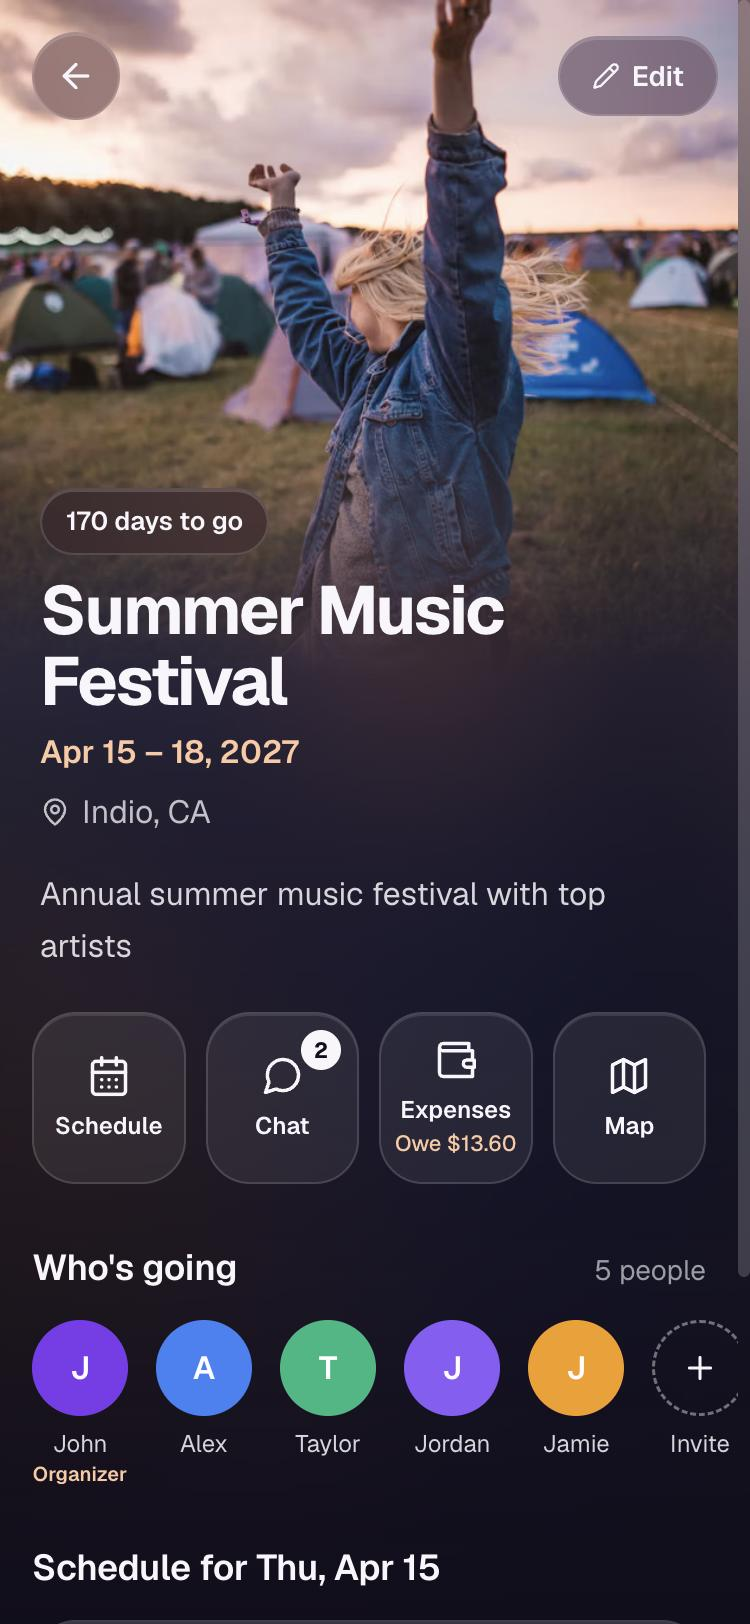
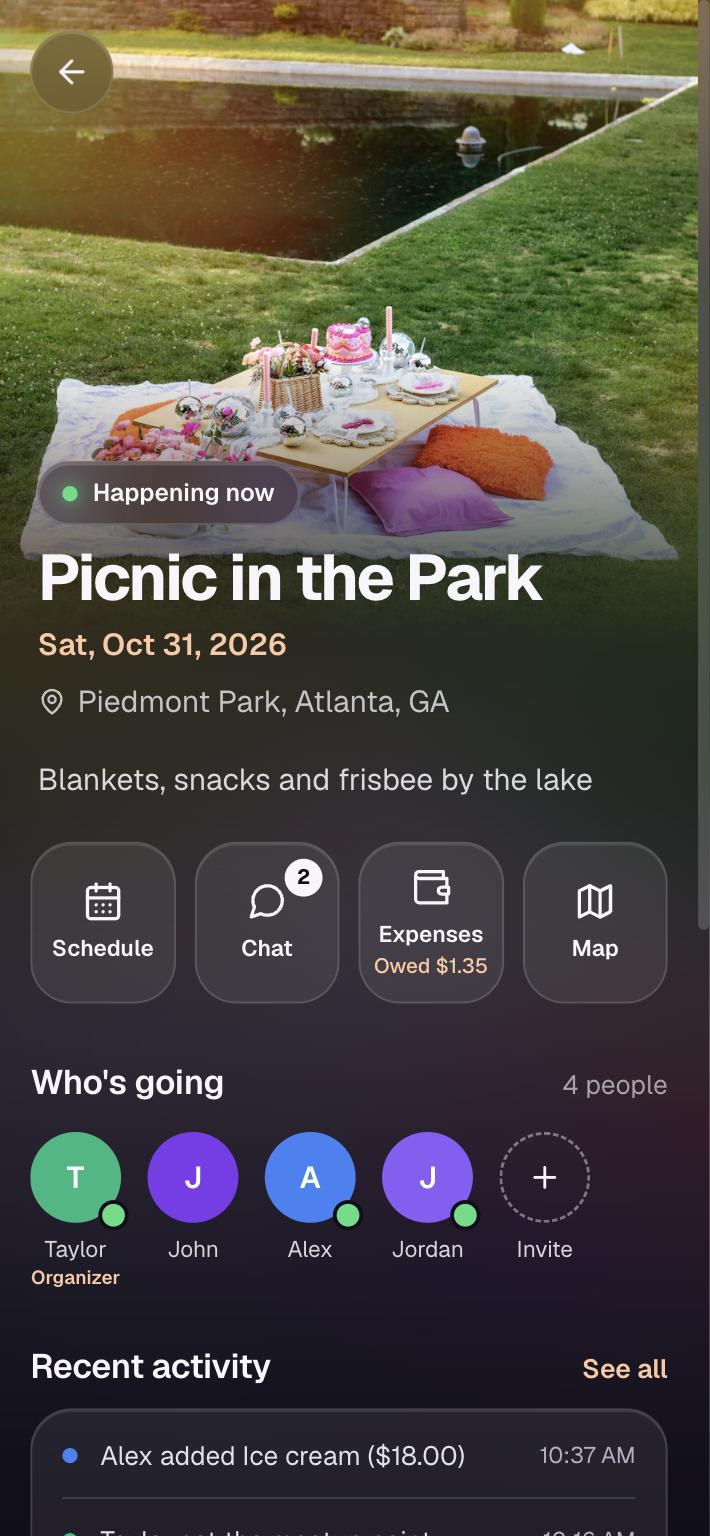
The README shows the app as it is now and claims only what's been tested, and CI stops failing on a flaky chat test

diff --git a/src/components/screens/GroupChat.test.js b/src/components/screens/GroupChat.test.js
@@ -213,7 +213,9 @@ describe('Group chat', () => {
       checkForNewMessages();
       await screen.findByText('Sent from my other phone');
 
-      expect(screen.getByRole('button', { name: 'New messages' })).toBeInTheDocument();
+      // The pill follows the messages a render later, so wait for it too: on
+      // a busy machine (CI) it isn't there yet the moment the text appears
+      expect(await screen.findByRole('button', { name: 'New messages' })).toBeInTheDocument();
       expect(reads()).toEqual(['c005']);
     });
 

diff --git a/README.md b/README.md
@@ -2,13 +2,13 @@
 
 A phone app for planning trips, festivals and nights out with friends: one place for the schedule, the group chat, who owes whom, and where everyone is once you get there.
 
-Built end to end by me: React front end, Express and MongoDB API, and a native iPhone app (Capacitor) that keeps sharing your location with your friends while the phone is locked.
+Built end to end by me: React front end, Express and MongoDB API, and a native iPhone app (Capacitor) built to keep sharing your location with your friends while the phone is locked.
 
 **[Try the live demo](https://eventbuddy-exic.onrender.com)** and tap **Try the demo** to look around as John, in your own copy of the demo, so change anything you like. Open the picnic and three of John's friends, simulated and labelled as such, chat, move on the map and add a cost while you watch. It runs on a free server that sleeps when idle, so the first visit can take up to a minute to wake it.
 
 | Home | Event | Live map | Group chat | Split costs |
 |---|---|---|---|---|
-| <img src="docs/screenshots/home.jpg" width="160" alt="Home: the picnic happening now and the trips coming up"> | <img src="docs/screenshots/event.jpg" width="160" alt="An event page with unread chat messages and what you owe"> | <img src="docs/screenshots/map.jpg" width="160" alt="Friends sharing their location at the picnic, with a meetup point"> | <img src="docs/screenshots/chat.jpg" width="160" alt="The festival group chat"> | <img src="docs/screenshots/expenses.jpg" width="160" alt="Festival expenses with balances and who pays whom"> |
+| <img src="docs/screenshots/home.jpg" width="160" alt="Home: the picnic happening now and the trips coming up"> | <img src="docs/screenshots/event.jpg" width="160" alt="The picnic page: friends here now, the ice cream Alex just added, and what you're owed"> | <img src="docs/screenshots/map.jpg" width="160" alt="Friends at the picnic on the live map, each updated seconds ago, with the meetup point"> | <img src="docs/screenshots/chat.jpg" width="160" alt="The picnic chat, with the friends who are here now"> | <img src="docs/screenshots/expenses.jpg" width="160" alt="Festival expenses with balances and who pays whom"> |
 
 ## What it does
 
@@ -17,7 +17,7 @@ Built end to end by me: React front end, Express and MongoDB API, and a native i
 - **See who's here.** A green dot on a friend's avatar, a "Here now" line in the chat and on the map mean they have EventBuddy open right now.
 - **Catch up at a glance.** The event page shows the latest things that happened ("Taylor set the meetup point", "Alex added Snacks & drinks"), with the whole history a tap away.
 - **Split costs.** Add expenses split equally or by exact amounts. EventBuddy works out balances and a short list of payments to settle up, then opens Venmo, Cash App or PayPal with the amount filled in. The money moves in those apps; EventBuddy only records what you mark paid. Amounts are US dollars, and schedule times are local to the event.
-- **Find each other.** During an event, friends can share their location for an hour, a few hours or until midnight. The map shows where everyone is, how many seconds ago they updated, and a meetup point anyone can set. While a friend walks with the app open, their phone sends a position about every 2 seconds and their pin glides between them, like watching a delivery driver come up the street. In the iPhone app, sharing keeps working with the screen locked, at a slower pace that iOS decides. Before the trip, an event's map helps plan it instead: directions, a meetup point for the first day, and what else is on nearby during those dates.
+- **Find each other.** During an event, friends can share their location for an hour, a few hours or until midnight. The map shows where everyone is, how many seconds ago they updated, and a meetup point anyone can set. While a friend walks with the app open, their phone sends a position about every 2 seconds and their pin glides between them, like watching a delivery driver come up the street. The iPhone app uses iOS background location so sharing can carry on with the screen locked, at a pace iOS decides; that part hasn't been tested on a physical iPhone yet. Before the trip, an event's map helps plan it instead: directions, a meetup point for the first day, and what else is on nearby during those dates.
 - **Discover things to do.** Concerts, games and shows near you (Ticketmaster), found from your phone's location without setting anything up, each one a tap away from becoming a plan with friends.
 
 ## Run it locally

diff --git a/docs/HANDOFF.md b/docs/HANDOFF.md
@@ -42,8 +42,9 @@
 
 ## Waiting on the user
 
-- **Push `abuse-limits`** (`git push origin abuse-limits:main`), then redeploy the API if it doesn't deploy itself. Check: 11 quick `POST /api/auth/demo` from one address give a 429 on the 11th.
-- `1cdcb88c` (4d, smoother tracking, the lake fix) is on GitHub's `main` and was checked live on the hosted API on 31 Oct: share ids, the server clock and the friends' new positions are all there. So the API redeployed, or Auto-Deploy is now on.
+- **Push `readme-refresh`** (`git push origin readme-refresh:main`): new README screenshots, the qualified iPhone claim and the CI flake fix. Nothing in it needs an API redeploy.
+- Everything through `d3f3bf90` (item 5 and the prune fix) is on GitHub's `main` and live. Checked 31 Oct: the hosted demo route answers with `ratelimit-policy: "10-in-1hr"` keyed to the visitor's address, and Discover returns real Ticketmaster events.
+- **The physical-iPhone walk test** (finish-plan item 6) is still yours. Until it's done, the README says locked-phone sharing hasn't been tested on a device.
 - **Check CI** for the 28 Oct pushes.
 
 ## What was done
@@ -101,6 +102,11 @@
   - **P2:** a finished session waited forever, so a world pruned and rebuilt with the same ids never got its story, and a deleted picnic or a John who left went unnoticed. A told session now re-runs the loop's checks every `toldCheckMs` (60 s), and at once when John opens the picnic again: a rebuilt world (counter back at 0) gets its story, and anything else invalid ends the session.
   - "Never undoes a claim made by the session that replaced it" and the four "after the story is told" tests fail when the old code is put back. "Hands the beat back when nobody has claimed since" guards against making the condition too strict.
 - **Tests:** `server/tests/demoFriends.test.js` (27). Its cleanup hook is registered before `useTestDatabase()`, so stories stop before each wipe. Not covered: `'left'` through token expiry (it shares `endPresence` with logout, which is tested).
+
+**CI and README refresh (31 Oct, on `readme-refresh`).**
+- **CI:** GitHub's public API showed runs #42, #43 and #46 to #49 failed in the web app's "Run tests" step only, the API job passing every time (a docs-only commit, #46, failed too, so it was a flaky test). Reproduced locally with `CI=true npx react-scripts test --watchAll=false` (all workers, as CI runs it, not `--maxWorkers=2`): "Group chat › while scrolled up › offers to jump when a friend's message arrives just before one of yours" looked for the "New messages" pill the moment the message text appeared, but the pill comes a render later. It now waits for the pill. Ten CI-style runs in a row passed afterwards. A `Map.test.js` failure showed up once under that load and didn't come back in ten runs; if CI goes red again, read that run's log (job logs need a login, but `api.github.com/repos/Wrd123/EventBuddy/actions/runs/<id>/jobs` shows which step failed).
+- **Screenshots:** `home`, `event`, `chat` and `map` were retaken from the production build in a fresh demo world (picnic with the friends here, the ice cream, the seconds captions). `expenses.jpg` (the festival ledger, unchanged since 27 Oct) was kept. The map is 302x652 because the Browser pane captures a WebGL page at its on-screen size; the others are 710x1536. With the pane shorter than the phone, captures came out 750x1624 with an empty margin and were cropped to 710x1536 with Pillow (`sips` can't write its temp file in the sandbox).
+- **The iPhone claim** in the README's intro and "Find each other" now says locked-phone sharing is built but not yet tested on a physical iPhone. Restore the stronger wording once the walk test passes.
 
 **Finish plan, item 5: the abuse backlog (31 Oct, on `abuse-limits`).** Planned, revised after Codex's review (no `skipFailedRequests`; rebuilds share the cap; a socket test that proves the new close), built by a Sonnet subagent, checked live and reviewed. Details are in `docs/SECURITY_REVIEW.md` under C2.
 - `server/src/demoBuilds.js` is the one build budget (prune, then build, 5 at once) for new worlds and saved-login rebuilds. Busy is a 503 marked `busy`, passed through `authenticate` and turned into close code 1013 (`TRY_LATER`) on the socket.
